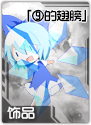
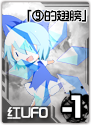
IceWing: Change category from accessories to redufo

Changed region(s): [[0.6154, 0.72, 0.989, 0.984], [0.0659, 0.84, 0.5495, 0.96], [0.8791, 0.672, 0.9231, 0.72]]

diff --git a/src/gamepack/thb/ui/ui_meta/cards/equipment.py b/src/gamepack/thb/ui/ui_meta/cards/equipment.py
@@ -894,7 +894,8 @@ class IceWingCard:
     image_small = 'thb-card-small-icewing'
     description = (
         u'|R⑨的翅膀|r\n\n'
-        u'装备后：【封魔阵】和【冻青蛙】对你无效。\n\n'
+        u'特殊的红色UFO装备，距离-1。\n\n'
+        u'装备后：|G封魔阵|r和|G冻青蛙|r对你无效。\n\n'
         u'|DB（画师：霏茶，CV：VV）|r'
     )
 

diff --git a/src/gamepack/thb/cards/definition.py b/src/gamepack/thb/cards/definition.py
@@ -363,9 +363,9 @@ class YoumuPhantomCard:
 class IceWingCard:
     associated_action = equipment.WearEquipmentAction
     target = t_Self
-    category = ('equipment', 'accessories')
+    category = ('equipment', 'redufo')
     equipment_skill = equipment.IceWingSkill
-    equipment_category = 'accessories'
+    equipment_category = 'redufo'
 
 
 class GrimoireCard:

diff --git a/src/gamepack/thb/cards/equipment.py b/src/gamepack/thb/cards/equipment.py
@@ -993,8 +993,9 @@ class YoumuPhantomHandler(EventHandler):
         return arg
 
 
-class IceWingSkill(AccessoriesSkill):
+class IceWingSkill(RedUFOSkill):
     skill_category = ('equip', 'passive')
+    increment = 1
 
 
 class IceWing(GenericAction):
